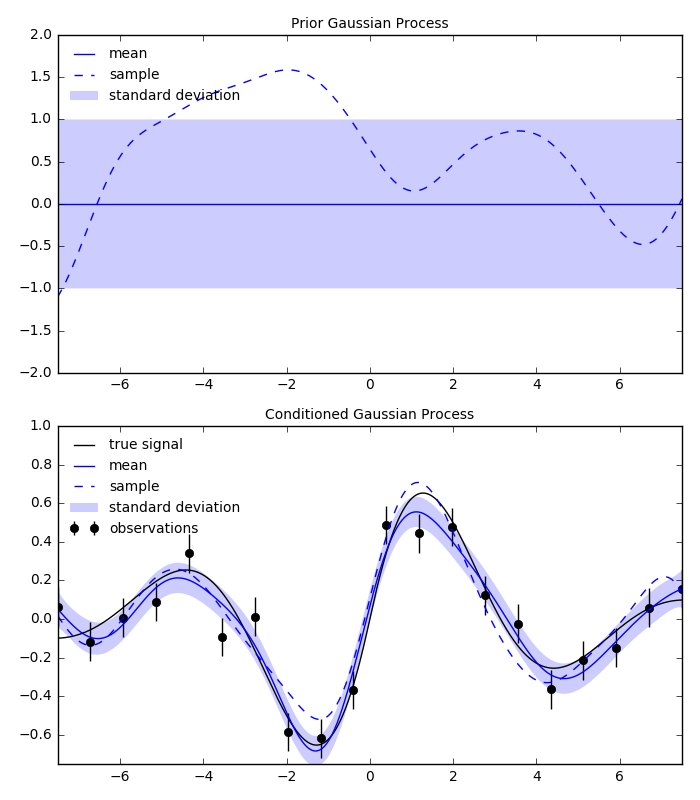
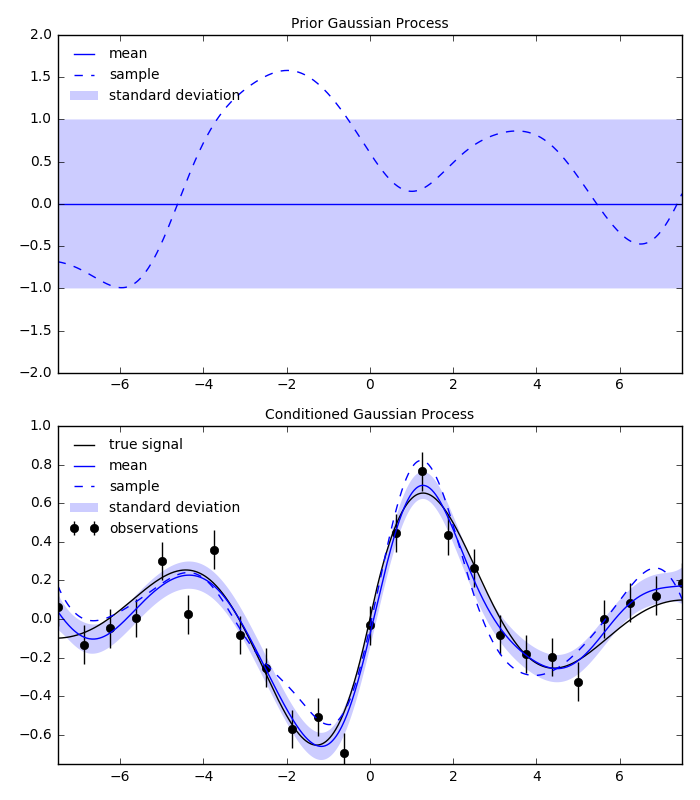
removed "D" method of GaussianProcess

diff --git a/docs/scripts/gauss.a.py b/docs/scripts/gauss.a.py
@@ -9,10 +9,10 @@ import matplotlib.pyplot as plt
 import rbf
 np.random.seed(1)
 
-y = np.linspace(-7.5,7.5,20) # observation points
+y = np.linspace(-7.5,7.5,25) # observation points
 x = np.linspace(-7.5,7.5,1000) # interpolation points
 u_true = np.exp(-0.3*np.abs(x))*np.sin(x)  # true signal
-sigma = 0.1*np.ones(20) # observation uncertainty
+sigma = 0.1*np.ones(25) # observation uncertainty
 # noisy observations of the signal
 d = np.exp(-0.3*np.abs(y))*np.sin(y) + np.random.normal(0.0,sigma)
 # form a prior Gaussian process which has a squared exponential basis 
@@ -22,6 +22,7 @@ gp = rbf.gauss.gpiso(rbf.basis.se,(0.0,1.0,2.0))
 sample = gp.draw_sample(x[:,None]) # generate random sample
 mean,std = gp(x[:,None]) # find the mean and standard dev. at x
 gp_cond = gp.condition(y[:,None],d,sigma=sigma) # condition with data
+
 sample_cond = gp_cond.draw_sample(x[:,None]) 
 mean_cond,std_cond = gp_cond(x[:,None])  
 

diff --git a/rbf/gauss.py b/rbf/gauss.py
@@ -918,12 +918,6 @@ class GaussianProcess(object):
     '''
     return self.condition(*args)
 
-  def D(self,diff):
-    ''' 
-    alias for *differentiate*.
-    '''
-    return self.differentiate(diff)
-
   def add(self,other):
     ''' 
     Adds two *GaussianProcess* instances. 
